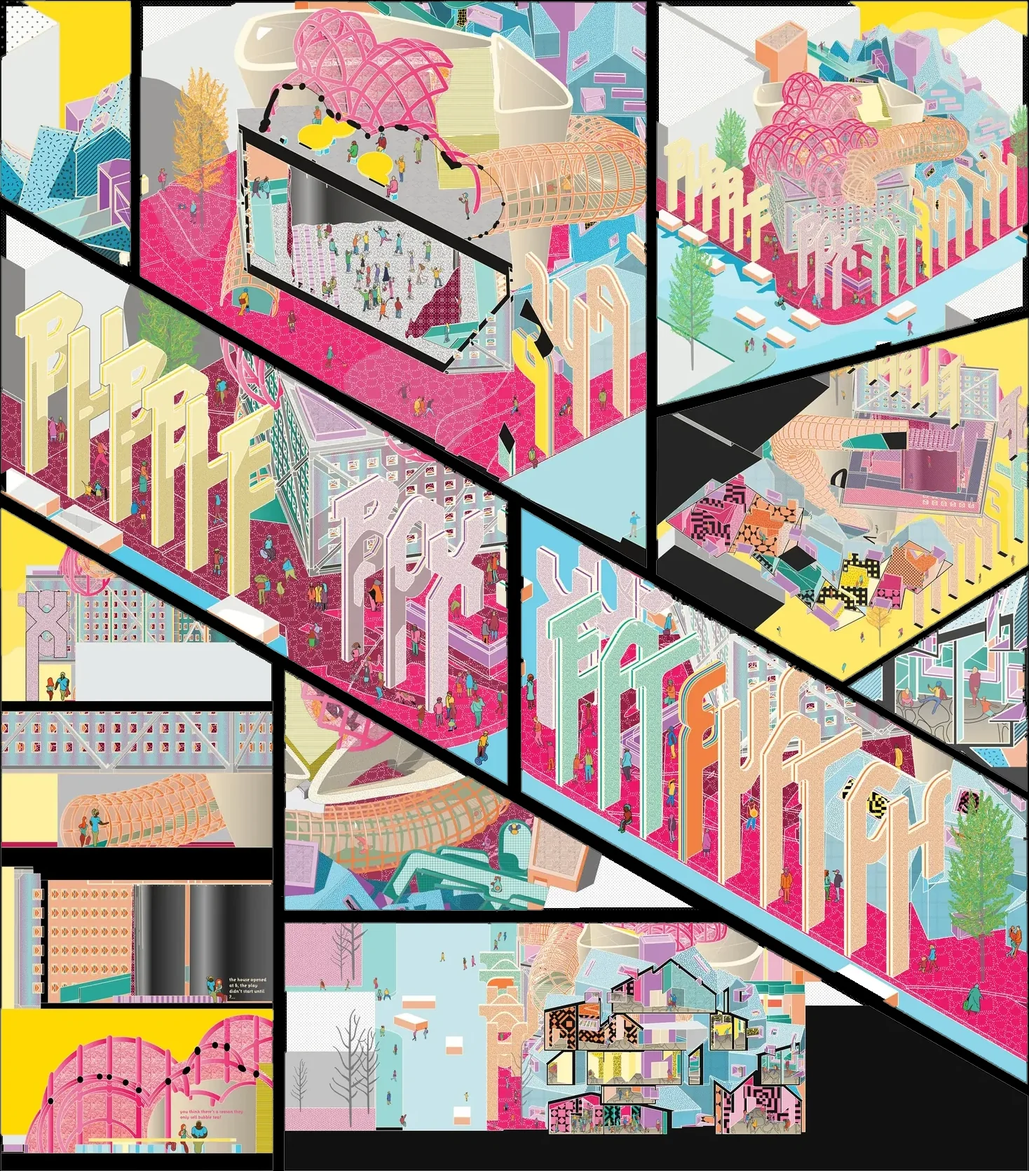
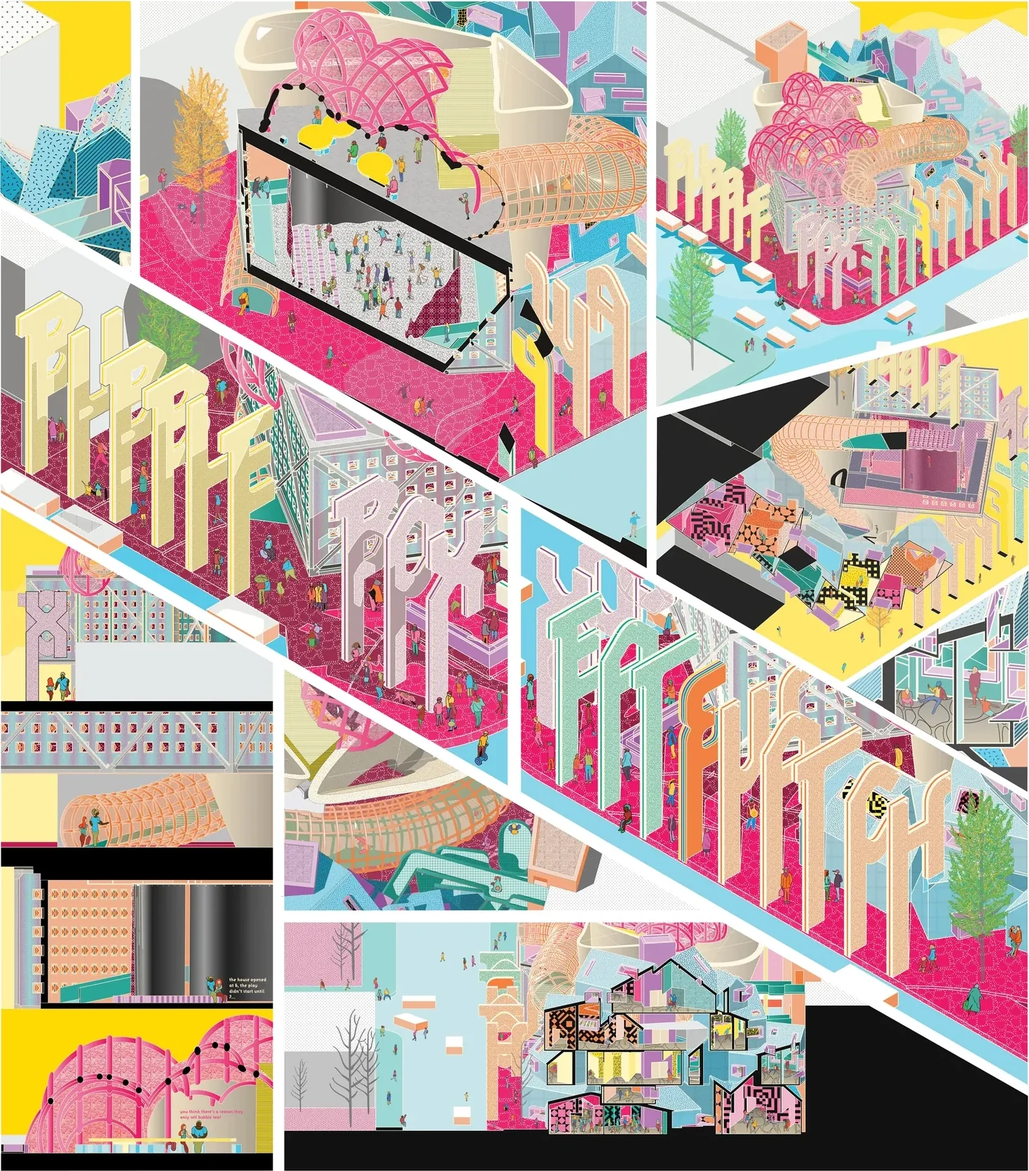
Give the Bubble Box collage and plans a version for each theme
The collage has its white gutters on the light page and black on the
dark, and the plans lose their border line and swap black and white on
the dark page, their colour kept. An image with a sibling named
<name>-dark is written twice and CSS shows the one for the theme. The
riso script's link carries a fingerprint of the file, so a browser
holding the old script fetches the new one.

diff --git a/content/projects/bubble-box-eat-watch/riso.html b/content/projects/bubble-box-eat-watch/riso.html
@@ -1,7 +1,7 @@
 <!-- The collage pulled on a four-drum risograph (riso.js draws it). build.py
      inlines this into the page as a figure, with the image line's alt text
-     in the two places marked. The still, 02.webp, stands in without WebGL 2
-     and in print. -->
+     in the two places marked. The still, 02.webp (02-dark.webp on the dark page), stands in
+     without WebGL 2 and in print. -->
 <style>
   .riso { --paper: #f2f2f0; }
   [data-theme="dark"] .riso { --paper: #1c1c20; }
@@ -132,7 +132,8 @@
       <span class="switch"><button type="button" id="riso-close">Close</button></span>
     </div>
   </div>
-  <img class="riso-still" src="02.webp" alt="{{alt}}" width="1468" height="1670" loading="lazy" decoding="async">
+  <img class="riso-still for-light" src="02.webp" alt="{{alt}}" width="1468" height="1670" loading="lazy" decoding="async">
+  <img class="riso-still for-dark" src="02-dark.webp" alt="{{alt}}" width="1468" height="1670" loading="lazy" decoding="async">
   <div class="riso-controls">
     <div class="switch" role="group" aria-label="Look closer">
       <button type="button" id="riso-in">Closer</button>
@@ -150,4 +151,4 @@
   <div class="riso-inks" id="riso-inks" role="group" aria-label="Ink in each drum"></div>
   <p class="riso-note" id="riso-hint">Double-click the print to look closer and drag to move about. Each reprint lands a little off register.</p>
 </div>
-<script src="riso.js" defer></script>
+<script src="riso.js?v={{v:riso.js}}" defer></script>

diff --git a/assets/style.css b/assets/style.css
@@ -455,6 +455,12 @@ ul.rows li, ol.rows li { margin-bottom: .7em; }
    a deep blue rather than orange. */
 [data-theme="dark"] .figure img.ink { filter: invert(1) hue-rotate(180deg); }
 
+/* An image with a version for the dark page (build.py's dark_twin): only
+   the one for the theme shows. !important so that it holds against any
+   rule that shows an image, like the riso print's still. */
+[data-theme="dark"] .for-light,
+:root:not([data-theme="dark"]) .for-dark { display: none !important; }
+
 /* The date under a project's title, where the old site had it, and the
    credit under that: the school, the studio, and anyone it was made with. */
 .project > .date,
@@ -1087,6 +1093,8 @@ ul.rows li, ol.rows li { margin-bottom: .7em; }
   .blobs,
   .swimmer { display: none; }
   main { filter: none; }
+  .for-dark { display: none !important; }
+  .for-light { display: block !important; }
   .page { max-width: none; padding: 0; }
   a { text-decoration: none; }
 }

diff --git a/build.py b/build.py
@@ -12,6 +12,7 @@ content/projects/ as a page of its own, and writes dist/.
 No dependencies. Python 3.8+. Nothing to install, nothing to keep updated.
 """
 
+import hashlib
 import html
 import http.server
 import json
@@ -206,7 +207,9 @@ def render_figure(images, base):
     An .mp4 or .webm in the same syntax becomes a video with controls, and
     a .json becomes a chart (see render_chart), and an .html is inlined
     (see render_embed). Two files joined by | are one picture with a second
-    under it (see render_reveal).
+    under it (see render_reveal). An image with a sibling named <name>-dark
+    (02.webp and 02-dark.webp) is written twice, and the page shows the one
+    for its theme (see dark_twin).
     """
     if len(images) == 1 and images[0][1].lower().endswith(".json"):
         return render_chart(images[0][0], images[0][1], base)
@@ -234,12 +237,31 @@ def render_figure(images, base):
             # Narrower than the column: never stretched past its own width.
             style = ' style="max-width: %dpx"' % size[0]
         ink = ' class="ink"' if base and "://" not in src and is_ink(base / html.unescape(src)) else ""
-        parts.append(
-            '<a href="%s"%s><img%s src="%s" alt="%s"%s loading="lazy" decoding="async"></a>'
-            % (src, style, ink, src, label, attrs)
-        )
+        twin = dark_twin(base, html.unescape(src))
+        pair = [(' class="for-light"', src), (' class="for-dark"', html.escape(twin, quote=True))] if twin else [("", src)]
+        for cls, file in pair:
+            parts.append(
+                '<a%s href="%s"%s><img%s src="%s" alt="%s"%s loading="lazy" decoding="async"></a>'
+                % (cls, file, style, ink if not cls else "", file, label, attrs)
+            )
     css = "figure row" if len(images) > 1 else "figure"
     return '<figure class="%s">%s</figure>' % (css, "".join(parts))
+
+
+def dark_twin(base, src):
+    """The dark theme's version of an image, if there is one beside it.
+
+    02.webp is the collage with white gutters, 02-dark.webp the same with
+    black; 03.webp the plans, 03-dark.webp with black and white swapped and
+    the colour kept. Both are in the page; CSS hides the one for the other
+    theme, and a hidden lazy image is never fetched. The two must share a
+    size. The -dark file is not linked by name from the Markdown.
+    """
+    if not base or "://" in src:
+        return None
+    path = base / src
+    twin = path.with_name(path.stem + "-dark" + path.suffix)
+    return twin.name if twin.exists() else None
 
 
 def render_reveal(alt, src, base):
@@ -283,9 +305,18 @@ def render_embed(alt, src, base):
 
     For a one-off interactive piece, like the Bubble Box riso print, whose
     fragment carries its style and a script beside it. {{alt}} in the
-    fragment becomes the alt text.
+    fragment becomes the alt text, and {{v:riso.js}} a fingerprint of that
+    file for its link (riso.js?v=...), so a browser holding the old script
+    fetches the new one: GitHub Pages lets it keep a file for ten minutes,
+    and a new page with an old script has buttons that do nothing.
     """
     fragment = (base / src).read_text(encoding="utf-8") if base else ""
+
+    def version(match):
+        path = base / match.group(1) if base else None
+        return hashlib.sha1(path.read_bytes()).hexdigest()[:10] if path and path.exists() else ""
+
+    fragment = re.sub(r"\{\{v:([^}]+)\}\}", version, fragment)
     return '<figure class="figure embed">\n%s\n</figure>' % (
         fragment.strip().replace("{{alt}}", html.escape(alt, quote=True)))
 

diff --git a/CLAUDE.md b/CLAUDE.md
@@ -37,7 +37,8 @@ Deployment is automatic: pushing to `main` runs `.github/workflows/deploy.yml`, 
 - The same syntax with an `.mp4` or `.webm` gives a `<video>` with controls, played on request; the alt text becomes its `aria-label`.
 - The same syntax with a `.json` gives a chart (`render_chart()`): the file is inlined into the figure as `<script type="application/json">`, the alt text is its visible title, and `assets/chart.js` draws it in the page's ink with `.switch` buttons for its views and a readout line under it. Two types, both described at the top of `chart.js`: horizontal bars (the default; hollow for the reference, solid for what is tested; hover, focus or a tap on a bar fills the readout), and `"type": "lines"`, an SVG line chart that draws on from the left when it first scrolls into view and on every switch, with a crosshair readout under the pointer or the arrow keys. A line chart can set `stagger` (ms) to draw its series on one after another, a value can be `null` to leave a gap, and besides `dotted`/`thin`/`dashed`/`solid` there is a scale of ink, `faint`, `light`, `mid`, `solid`, for one thing turned up (the climates in `climates.json`). `chart.js` loads before `app.js` so `fitLabels()` sizes its switch buttons too. A chart must stand alone, with blank lines round it.
 - An image with an alpha channel (PNG, or a WebP that isn't animated; `is_ink()`) is taken as a drawing in black ink on a clear ground and gets `class="ink"`, which the dark theme inverts to white ink. The thesis page's plans and section, and Bubble Box's section (`07.webp`), are made this way: greyscale, darkness turned into opacity, RGB zero. The heat-wave-party plan (`11.webp`) also has its two gathering rooms washed in pale blue, cut from the painted ground of the hamlet painting (`09.webp`) and filled to the walls; the dark theme's invert is followed by a 180° hue turn, which leaves grey alone and keeps that wash blue. Photographs and renderings are saved flat, without alpha, so they are left alone. Animated WebPs carry the alpha flag even when opaque, hence the exclusion (Accommodations' opener is one). A colour drawing cut out of its white ground so it sits on the dark page is also left alone: its name ends in `-cut` (Bubble Box's volume diagram, `01-cut.webp`, the white made clear by colour-to-alpha against white in the near-white and two pixels round it).
-- The same syntax with an `.html` inlines that file, a fragment, as the figure (`render_embed()`), with `{{alt}}` in it replaced by the alt text: for a one-off interactive piece that brings its own markup, `<style>` and a script beside it. Only one uses it: Bubble Box's `riso.html`, the collage pulled on a four-drum risograph in WebGL 2 (`riso.js`, from the handoff at `…\bubble-box-eat-watch\bubble-box-people-handoff\bubble-box-people\Bubble Box Collage (inks).html` in the archive), under the text; the page opens with the collage itself, `02.webp`, which is also the print's still where there is no WebGL 2 and in print, and the volume diagram follows the print. The empty collage and the people sprite sheet are `riso-ground.webp` and `riso-people.webp`, fetched only as the print comes near; the crowd, the ink list and the colour lattice are inline in `riso.js`. Jon wanted the controls below the print, in the site's own face and `.switch` buttons (no monospace), and only the bold screen, so there is no Fine/Bold switch; the handoff's own Light/Dark buttons and its time-of-day leftovers were dropped. The paper is `--paper` in `riso.html`, one per theme, and a `MutationObserver` on `<html>` repaints on a theme or face change (the slug along the foot is set in the page's face). Outside full screen the sheet is sized by CSS alone (`aspect-ratio` on `.riso-wrap`), so it follows the column while the loop sleeps off screen.
+- The same syntax with an `.html` inlines that file, a fragment, as the figure (`render_embed()`), with `{{alt}}` in it replaced by the alt text: for a one-off interactive piece that brings its own markup, `<style>` and a script beside it. Only one uses it: Bubble Box's `riso.html`, the collage pulled on a four-drum risograph in WebGL 2 (`riso.js`, from the handoff at `…\bubble-box-eat-watch\bubble-box-people-handoff\bubble-box-people\Bubble Box Collage (inks).html` in the archive), under the text; the page opens with the collage itself, `02.webp` (`02-dark.webp` on the dark page), which is also the print's still where there is no WebGL 2 and in print, and the volume diagram follows the print. The empty collage and the people sprite sheet are `riso-ground.webp` and `riso-people.webp`, fetched only as the print comes near; the crowd, the ink list and the colour lattice are inline in `riso.js`. The fragment links the script as `riso.js?v={{v:riso.js}}`, which the build fills with a fingerprint of the file, so a browser holding the old script (GitHub Pages lets it keep one ten minutes) fetches the new one instead of leaving new buttons with no code behind them. Reset loads `START`, the inks the collage was fitted to. Jon wanted the controls below the print, in the site's own face and `.switch` buttons (no monospace), and only the bold screen, so there is no Fine/Bold switch; the handoff's own Light/Dark buttons and its time-of-day leftovers were dropped. The paper is `--paper` in `riso.html`, one per theme, and a `MutationObserver` on `<html>` repaints on a theme or face change (the slug along the foot is set in the page's face). Outside full screen the sheet is sized by CSS alone (`aspect-ratio` on `.riso-wrap`), so it follows the column while the loop sleeps off screen.
+- An image with a sibling named `<name>-dark` (`02.webp` and `02-dark.webp`) is written into the page twice, `for-light` and `for-dark`, and `style.css` hides the one for the other theme (`dark_twin()`); a hidden lazy image is never fetched, and print shows the light one. The two must share a size. Bubble Box uses it twice: the collage has white gutters on the light page and black on the dark (`02-dark.webp` is the old crop with its gutters blacked; `02.webp` is the white-guttered version from before that commit, cut to the same box at 44, 43), and the plans (`03.webp`, their grey border line cropped off) have `03-dark.webp`, black and white swapped with the colour kept (neutral pixels inverted, saturated ones left, blended between by chroma).
 - Two files joined by `|` give one picture with a second under it (`render_reveal()`): `![Cool alt | Heated alt](03.webp|03-heat.webp)`. Hovering fades the second in; a tap, click or Enter holds it (`aria-pressed`, set by the last block of `app.js`). Made for the thermochromic paintings, so both files must be the same size.
 - **The thesis page** (`taming-torridity/`) uses all three. Its images were cropped from the thesis PDF, the heated paintings cropped to the same box as the cool ones so they register. The paintings are cropped to the wooden board, 3 px inside its edge, with no white paper around them (Jon's call); keep any new painting the same way, and apply one crop to both photos of a pair. `cities.json`, `hamlet.json` and `ground.json` are typed in from the thesis tables and labelled figures (`ground.json` from Figures 64, 65, 68 and 69: annual cooling for one house under six ground-modelling methods, the point of the page's "ground under the model" section, which Jon wants kept prominent). `methods.json` is the same comparison through the power cut, traced from Figures 70–73 (whose embedded titles are right and captions swapped: the plots titled Phoenix are Phoenix). FC factor, Ground Domain and Kiva overlap there and were traced as one bundle, labelled Ground Domain and Kiva; with R10 under the slab every line lies on that bundle, so hidden stretches take its value. `outage.json` was traced from the raster plots of Ground, Shared, Nest and Huddle House (Figures 138, 148, 161, 167; Shared House's two red lines were told apart by weight, solid main house over dashed apartment) by colour, one value an hour; the code-house line, the same in all three, agrees across the traces to 0.1 °C on average, and counting hours over 32 °C from the traces gives back the thesis's own counts within a few hours. `climates.json` (the four cities through the power cut, historic weather to 2080, IECC and Passive House; Jon's idea, placed after the bullets of "Four cities, one heat wave") was traced from Figures 52–55, whose eight lines per plot are one hue per house in four lightnesses and overlap. Plain colour-picking fails there. What worked: per column, the runs of each house's hue; every way of putting its four lines on those runs in climate order (a hotter climate never below a cooler one, which the thesis's hour counts bear out), a code-house line allowed to hide under a Passive House one, each scored by how the ink in each run matches the lines put there; then a Viterbi pass across the columns for continuity. Where lines sit exactly on top of each other before the cut, the setpoints (about 24.5 °C code, 26 °C Passive House) were read off directly. Checked by counting hours over 32 °C against the thesis's Tables 25–28 (the Hours too hot view of `cities.json`): Phoenix exact, Austin within 6 hours on every line, Miami and DC mostly within 10. DC's figure is a blurry JPEG that washed its 2080 lines to tintless grey; they were followed as the top two pale runs, the upper taken as the code house, as the figure shows where they part. DC is the least certain: its code-house 2050 line reads a few degrees low around hours 113 and 160, where it runs under the Passive House lines. DC's outdoor line starts at hour 7 in the figure, so the hours before are `null`. The outdoor line is historic weather only; the figures have none for the future climates. `weather.json`, at the head of the section (Jon wanted the weather first), is the outdoor heat index alone, historic weather, for each city's hot week (Table 1: DC July 27–August 2, Miami August 23–29, Austin July 25–31, Phoenix August 5–11), traced from the yellow dotted line of the same figures as the path through the most dots, moving freely, so it keeps their sharp drops; only the chosen city is drawn (Jon's call). It, `climates.json` and the bar chart `cities.json` all list Phoenix last (Jon's call). The tracing scripts were not kept; the approach above is enough to redo it.
 - ` :: ` inside a list item splits it into `.item-main` / `.item-meta` (right-aligned). When *every* item in a list uses `::`, the list gets `class="rows"` and loses its bullets; otherwise it is a normal list. This is what makes the work, CV and contact lists align. The slop list separates with ` - ` instead, so it stays a bulleted list.
